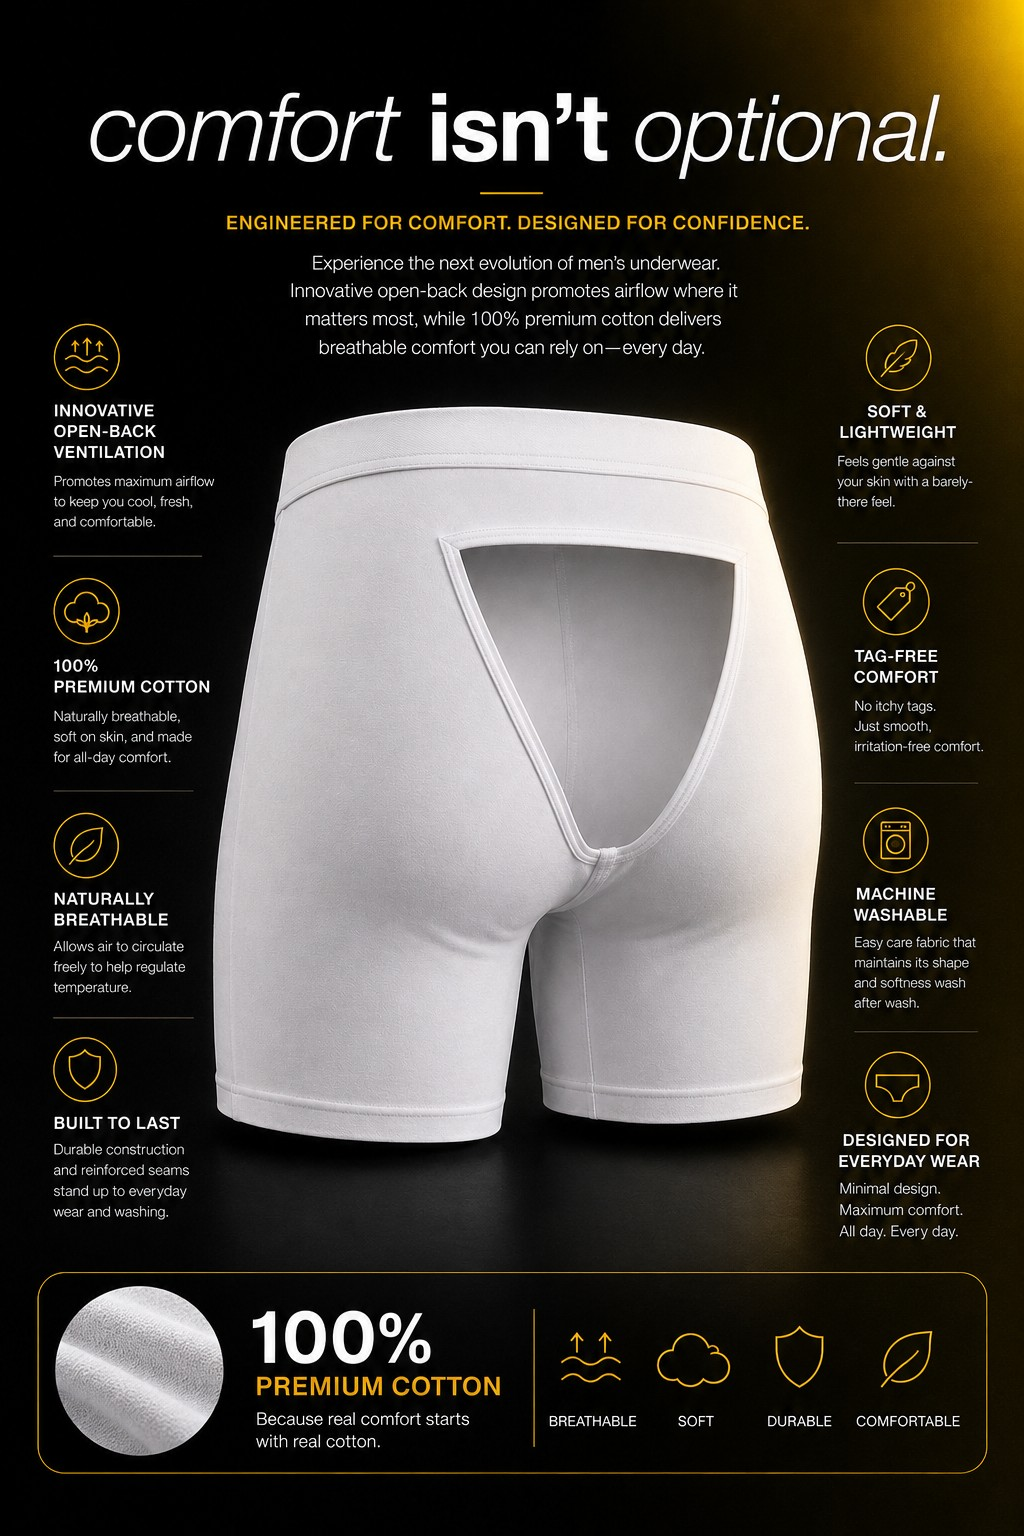
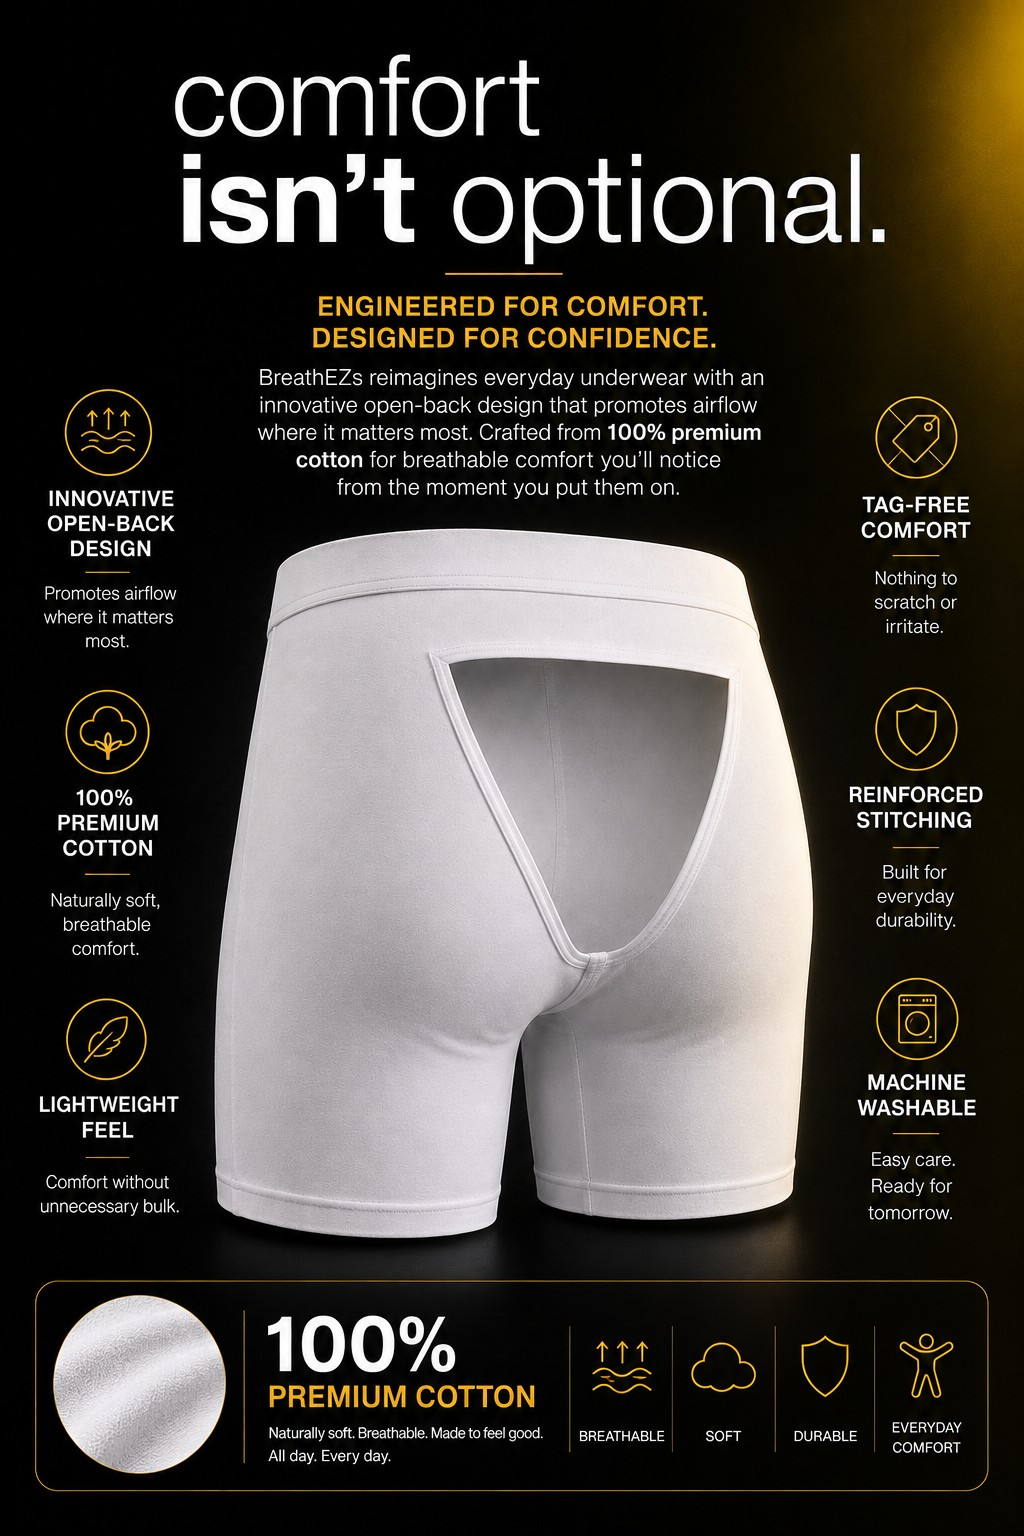
Update airflow infographic; fix hero neon stretch on ultrawide
- Swap in the revised comfort infographic (drops men's-only wording,
  cleaner callouts).
- Cap the hero neon background size at >=1900px viewports so the sign
  no longer zooms to an oversized fragment on ultrawide monitors; the
  dark backdrop now fills the extra width.

Claude-Session: https://claude.ai/code/session_01A2DdCsVA4Qx1DSWeaC92nh

Changed region(s): [[0.0312, 0.0, 1.0, 0.9688]]

diff --git a/index.html b/index.html
@@ -92,6 +92,8 @@ h2.title .accent{color:var(--purple)}
   linear-gradient(90deg,rgba(9,7,14,.95) 0%,rgba(9,7,14,.8) 36%,rgba(26,12,48,.42) 66%,rgba(96,32,168,.16) 100%),
   radial-gradient(135% 105% at 74% 48%,transparent 40%,rgba(6,4,12,.62) 100%)}
 .hero .container{position:relative;z-index:1}
+/* Ultrawide: stop the neon sign from zooming past a sane size, let the dark backdrop fill the extra width */
+@media(min-width:1900px){.hero::before{background-size:1900px auto;background-position:right center}}
 .hero-inner{max-width:37rem}
 .hero h1{font-size:clamp(2.6rem,5.4vw,4rem);font-weight:900;text-transform:uppercase;letter-spacing:-.02em;text-shadow:0 2px 24px rgba(0,0,0,.55)}
 .hero h1 .accent{color:var(--purple-neon)}
